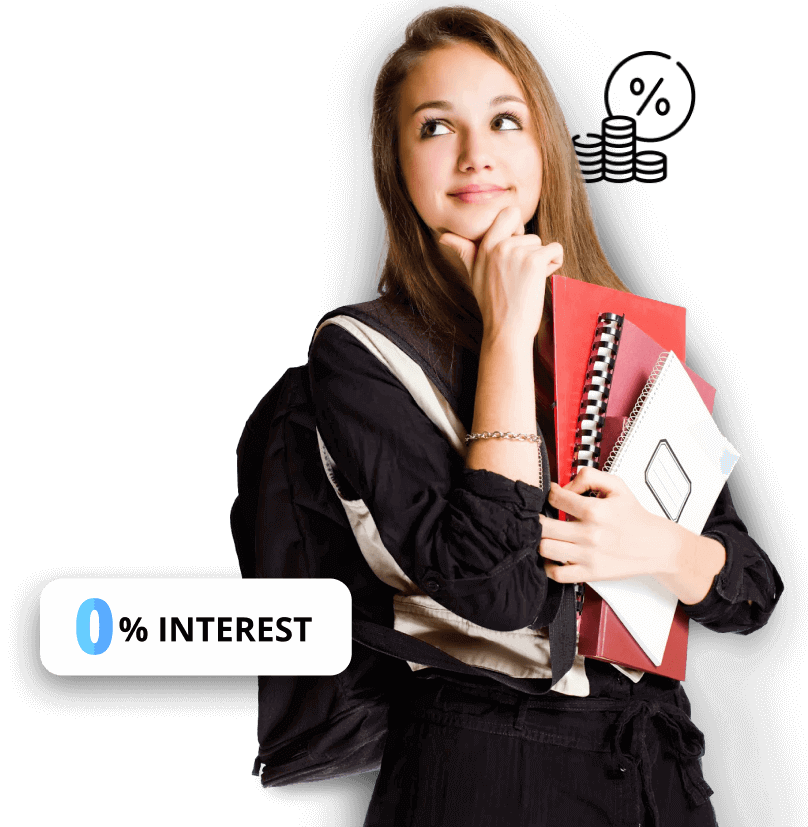
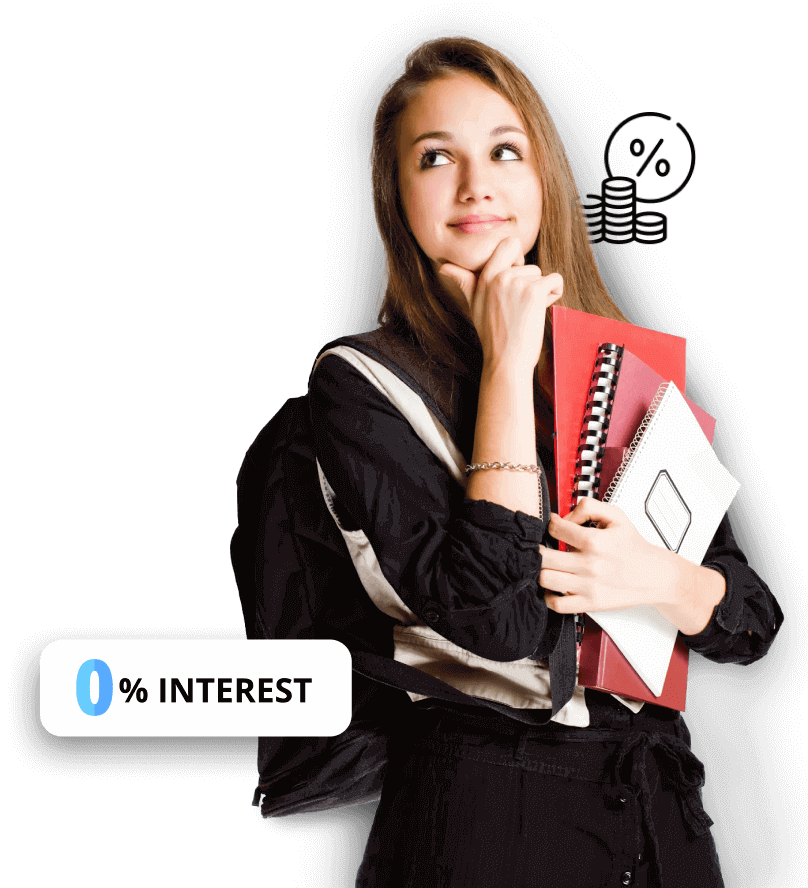
Interest Free Page Bug Fix

Changed region(s): [[0.3403, 0.0, 0.9901, 1.0], [0.0309, 0.6348, 0.495, 1.0], [0.3713, 0.5139, 0.4022, 0.5441]]

diff --git a/frontend/views/education-loans/interest-free-education-loan.php b/frontend/views/education-loans/interest-free-education-loan.php
@@ -44,12 +44,12 @@ $this->params['seo_tags'] = [
                         <h1>INTEREST FREE EDUCATION LOANS</h1>
                         <p>With our Interest Free Education Loan, we will make it simple and easier for you to fulfil your dream of studying in your desired College/University.</p>
                         <div class="header-btn">
-                            <a href="/education-loans/apply" class="apply-btn">APPLY NOW</a>
+                            <a href="/education-loans/apply" class="apply-btn">Apply Now</a>
                             <a href="#contact" class="enquire-btn">Enquire Now</a>
                         </div>
                     </div>
                 </div>
-                <div class="col-md-5 col-sm-5">
+                <div class="col-md-5 col-sm-5 header-img-holder">
                     <div class="header-img">
                         <img class="main-img" src="<?= Url::to('@eyAssets/images/pages/education-loans/interest-free-img.png') ?>" alt="">
                     </div>
@@ -382,27 +382,32 @@ $this->registerCss('
 .interest-free-header{
   background: #FF7803;
   font-family: roboto;
-  padding: 0px 40px;
   display: flex;
   align-items: center;
   position: relative;
-  min-height: 350px;
-  height: 85vh;
+  min-height: 550px;
 }
-
+.interest-free-header .container{
+    min-height: inherit;
+}
+.interest-free-header .row{
+    min-height: inherit;
+    display: flex;
+    align-items: center;
+}
 .header-text{
   flex-basis: 50%;
   position: relative;
   z-index: 2;
 }
 .header-text h1 {
-    margin-top: 60px;
     font-size: 50px;
     font-family: roboto;
     font-weight: 600;
     color: #fff;
-    line-height: 65px;
+    line-height: 53px;
     letter-spacing: 0.5px;
+    max-width: 490px;
 }
 .header-text p {
     color: #0e0e0e;
@@ -419,6 +424,9 @@ $this->registerCss('
   text-align center;
   flex-basis: 50%;
   z-index: 1;
+}
+.header-img-holder{
+    align-self: flex-end;
 }
 .header-img img{
   max-width: 400px;
@@ -439,8 +447,8 @@ $this->registerCss('
 .apply-btn{
   background-color: #00A0E3;
   color: #fff;
-  box-shadow: 0 3px 2px #00000045;
   transition: 0.2s ease-in; 
+  margin-right: 10px;
 }
 
 .apply-btn:hover {
@@ -845,7 +853,7 @@ html {
     font-weight: 600;
 }
 .studyus-head {
-    padding: 30px;
+    padding: 30px 0;
 }
 .whystudy {
     text-align: center;
@@ -1134,21 +1142,11 @@ html {
         text-align: left;
     }
 }
-@media only screen and (max-width: 1326px) and (min-width: 1025px){
-  .interest-free-header {
-        height: 95vh;
-  }
-  .header-text {
-    padding-top: 40px;
-  }
-}
-@media only screen and (max-width: 1024px) and (min-width: 992px){
-  .interest-free-header {
-        height: 70vh;
-  }
-}
 
 @media only screen and (max-width: 992px) and (min-width: 768px){
+   .interest-free-header{
+        min-height: 500px;
+   }
    .header-text h1 {
         line-height: 40px;
         font-size: 30px;
@@ -1156,20 +1154,16 @@ html {
     .header-img {
         margin-top: 80px;
     }
-   
-    .interest-free-header {
-        height: 80vh;
-    }
     .header-img img {
         max-width: 300px;
     }
 }
-@media only screen and (max-width: 767px) and (min-width: 576px){
+@media only screen and (max-width: 767px){
    .header-text h1 {
         line-height: 40px;
         font-size: 30px;
     }
-    .header-img {
+    .header-img-holder {
         display: none;
     }
 }
@@ -1194,9 +1188,6 @@ html {
   .coins{
     width: 50px;
   }
-  .interest-free-header {
-    height: 80vh;
-    }
 }
 
 @media only screen and (max-width: 420px) and (min-width: 320px){
@@ -1220,9 +1211,14 @@ html {
     .enquire-btn {
         margin-left: 0px;
     }
-  .interest-free-header {
-    height: 80vh;
-}
-  
+    .tele-btn a {
+        padding: 10px 10px;
+    }
+    .whats-btn a {
+        padding: 10px 10px;
+    }
+    .chat{
+        padding: 30px 0;
+    }
 }
 ');
